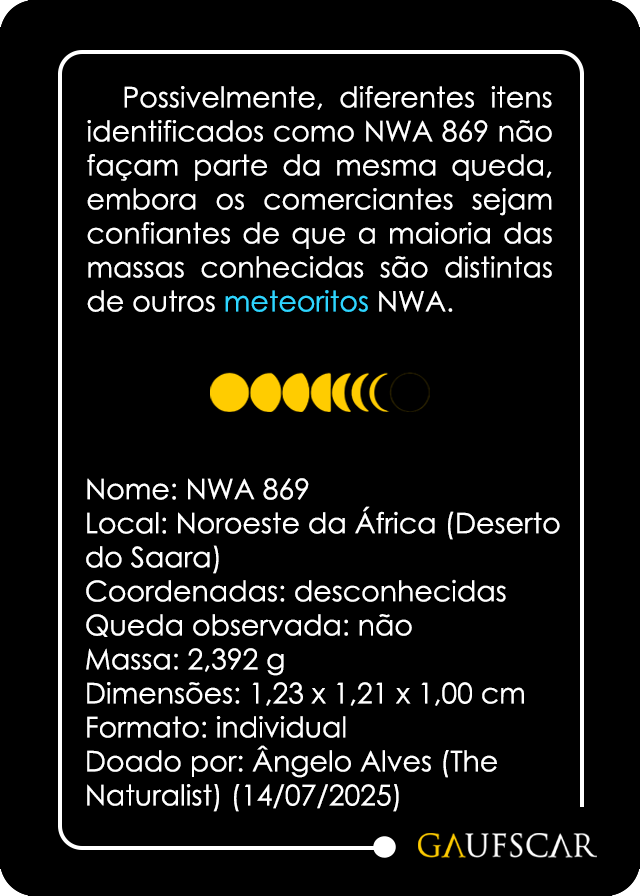
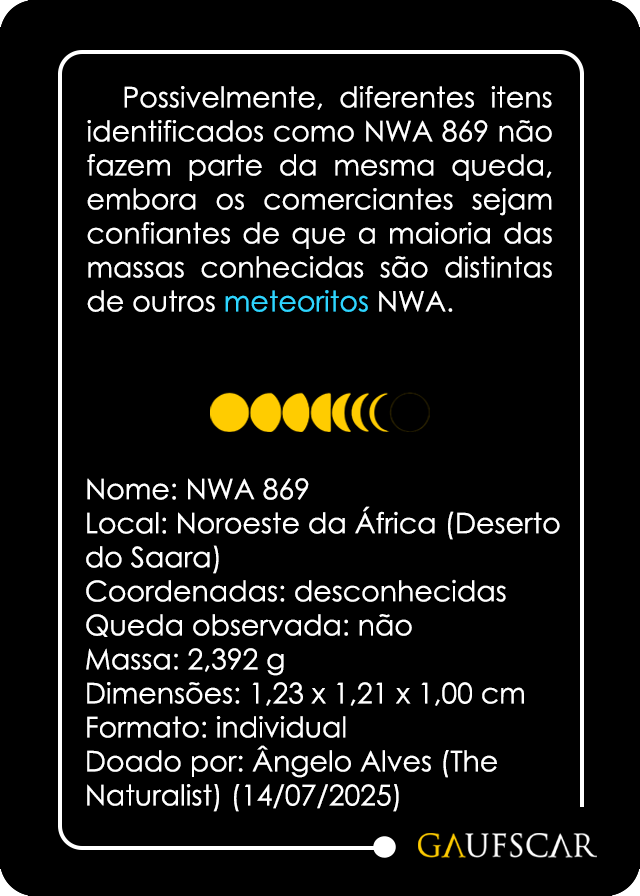
Add files via upload

diff --git a/index.html b/index.html
@@ -9,7 +9,7 @@
 body { margin: 0; font: 14px system-ui, sans-serif; }
 img { max-width: 100%; }
 </style>
-<!-- build-2026-11-25e: holo 5% e botão debug a 1% -->
+<!-- build-2026-11-26a: verso da NWA 869 atualizado -->
 <title>Cartas de Meteoritos e Impactitos</title>
 <link rel="preconnect" href="https://fonts.googleapis.com">
 <link rel="preconnect" href="https://fonts.gstatic.com" crossorigin>
@@ -781,7 +781,7 @@ h1:focus { outline: none; }
       dados: [["Nome", "NWA XXX"], ["Local", "Noroeste da África (Deserto do Saara)"], ["Coordenadas", "desconhecidas"], ["Queda observada", "não"], ["Massa", "51,585 g"], ["Dimensões", "8,37 x 7,99 x 0,34 cm"], ["Formato", "slice"], ["Doado por", "Carlo Bottelli (14/07/2025)"]] },
     { slug: "nwa-869", nome: "NWA 869", codigo: "C21", tipo: "c", classe: "condrito ordinário L3-6",
       frente: "Por volta de 1999, caçadores de meteoritos no noroeste da África descobriram um grande campo de espalhamento, com pelo menos 2 toneladas de material.",
-      verso: "Possivelmente, diferentes itens identificados como NWA 869 não façam parte da mesma queda, embora os comerciantes sejam confiantes de que a maioria das massas conhecidas são distintas de outros meteoritos NWA.",
+      verso: "Possivelmente, diferentes itens identificados como NWA 869 não fazem parte da mesma queda, embora os comerciantes sejam confiantes de que a maioria das massas conhecidas são distintas de outros meteoritos NWA.",
       dados: [["Nome", "NWA 869"], ["Local", "Noroeste da África (Deserto do Saara)"], ["Coordenadas", "desconhecidas"], ["Queda observada", "não"], ["Massa", "2,392 g"], ["Dimensões", "1,23 x 1,21 x 1,00 cm"], ["Formato", "individual"], ["Doado por", "Ângelo Alves (The Naturalist) (14/07/2025)"]] },
     { slug: "tatahouine", nome: "Tatahouine", codigo: "A01", tipo: "a", classe: "acondrito diogenito (asteroide Vesta)",
       frente: "Famoso pela cor verde intensa dos seus cristais de ortopiroxênio, esse meteorito caiu na Tunísia em 27 de junho de 1931. Ele é um acondrito que se formou no asteroide 4 Vesta, o maior do Cinturão Principal de Asteroides.",
